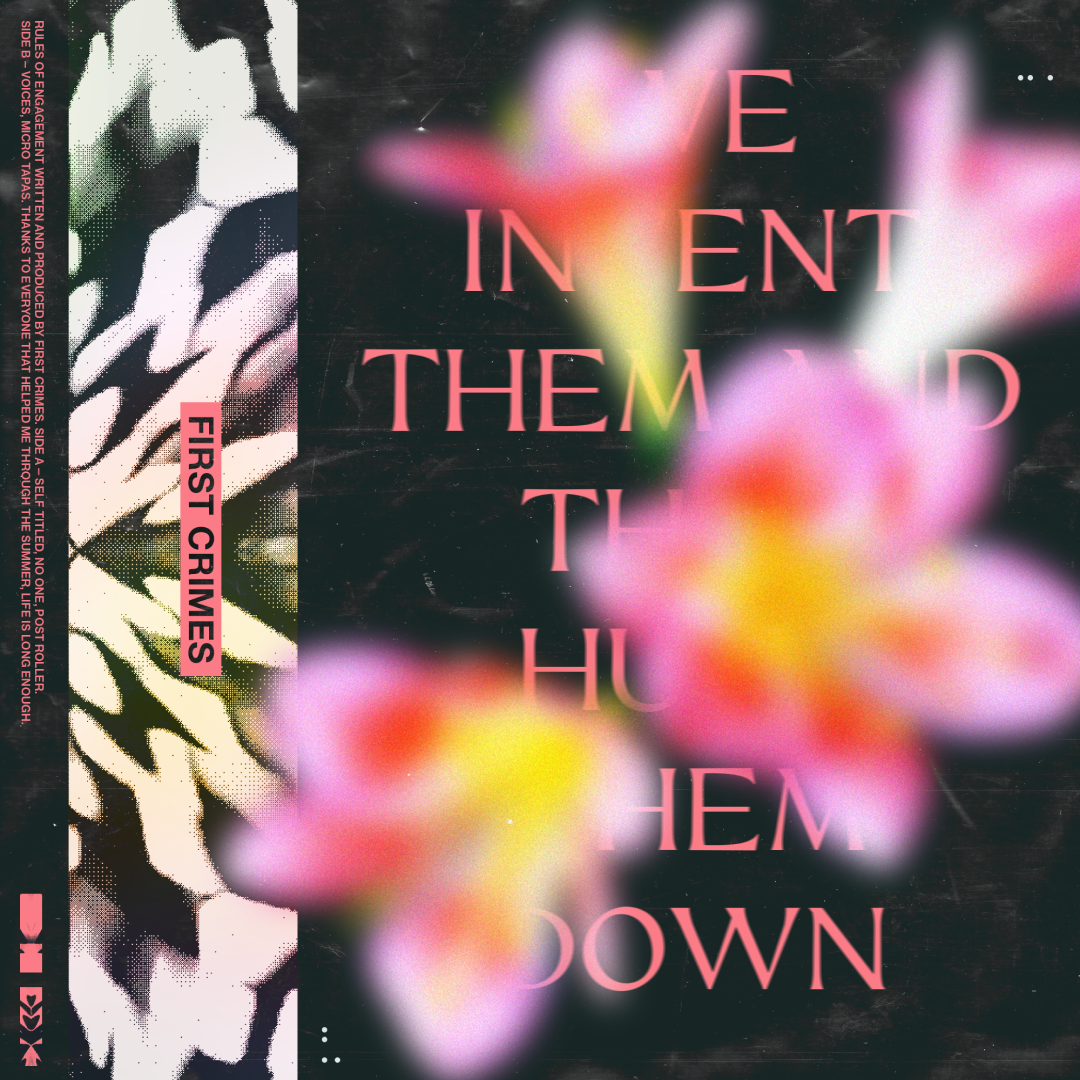
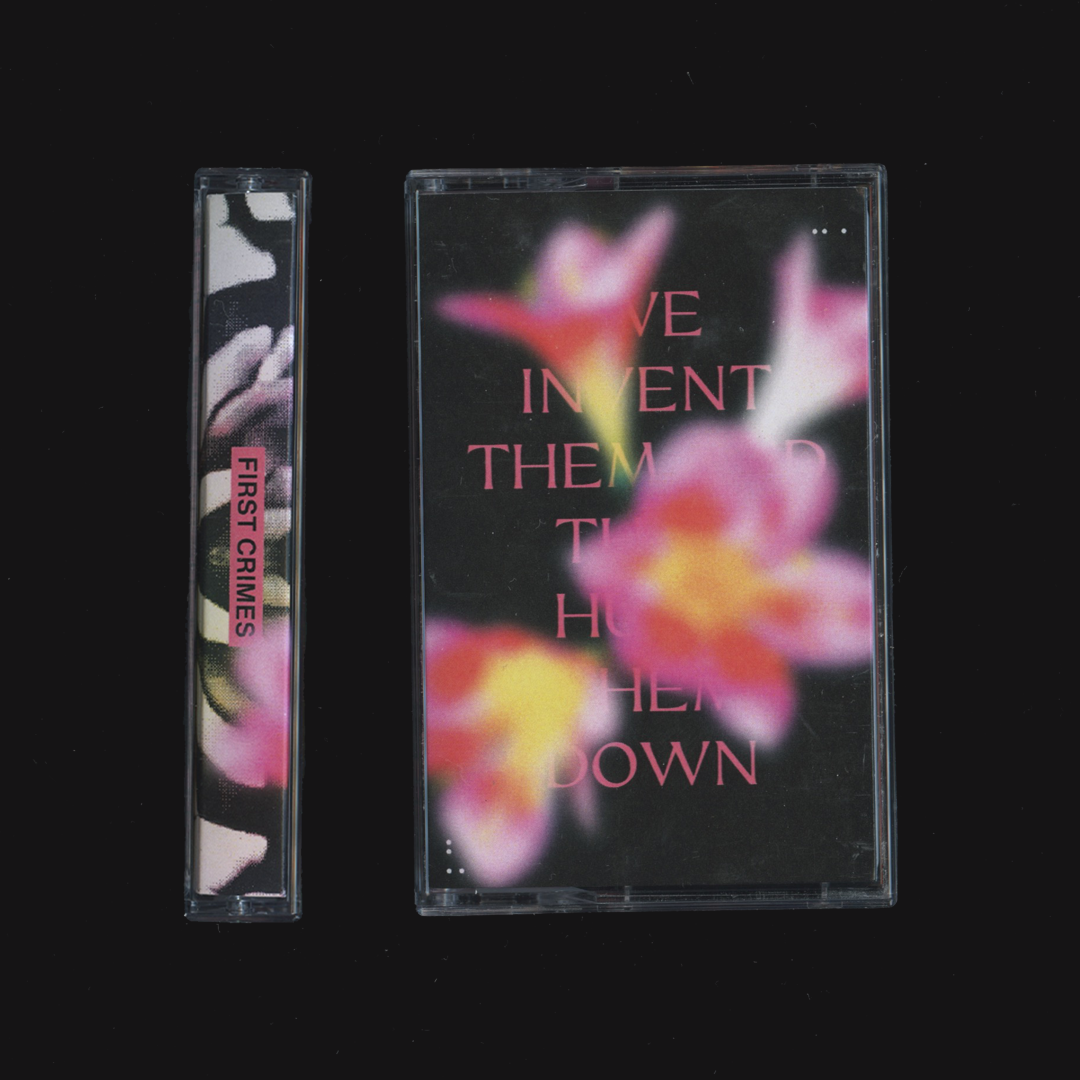
replaced EP image with scan

diff --git a/index.html b/index.html
@@ -42,6 +42,15 @@
       </div>
     </section>
 
+    <h3 class="w-100 ph3 ph5-ns pt4" >RULES OF ENGAGEMENT</h3>
+
+    <article class="w-100 ph3 ph5-ns mw9 pb1">
+      <h2 class="bigText">
+      <iframe class="mixtapeIframe" width="100%" height="300" scrolling="no" frameborder="no" allow="autoplay" src="https://w.soundcloud.com/player/?url=https%3A//api.soundcloud.com/playlists/1042852873%3Fsecret_token%3Ds-tBphRrlWDtb&color=%23ff5500&auto_play=false&hide_related=false&show_comments=false&show_user=true&show_reposts=false&show_teaser=true"></iframe>
+
+    </h2>
+  </article>
+
 
     <article class="w-100 pt5 pt6-ns ph3 ph5-ns mw9">
       <h2 class="bigText">

diff --git a/stylesheet.css b/stylesheet.css
@@ -386,7 +386,7 @@ a {
 
   .mixtapeIframe {
     width: 500px;
-    height: 450px;
+    height: 370px;
     display: inline;
   }
 
@@ -401,7 +401,7 @@ a {
 
   .releaseBlack {
     margin-top: 40px;
-    background-color: #1A1A1A;
+    background-color: #151415;
     height: 78vh;
   }
 
